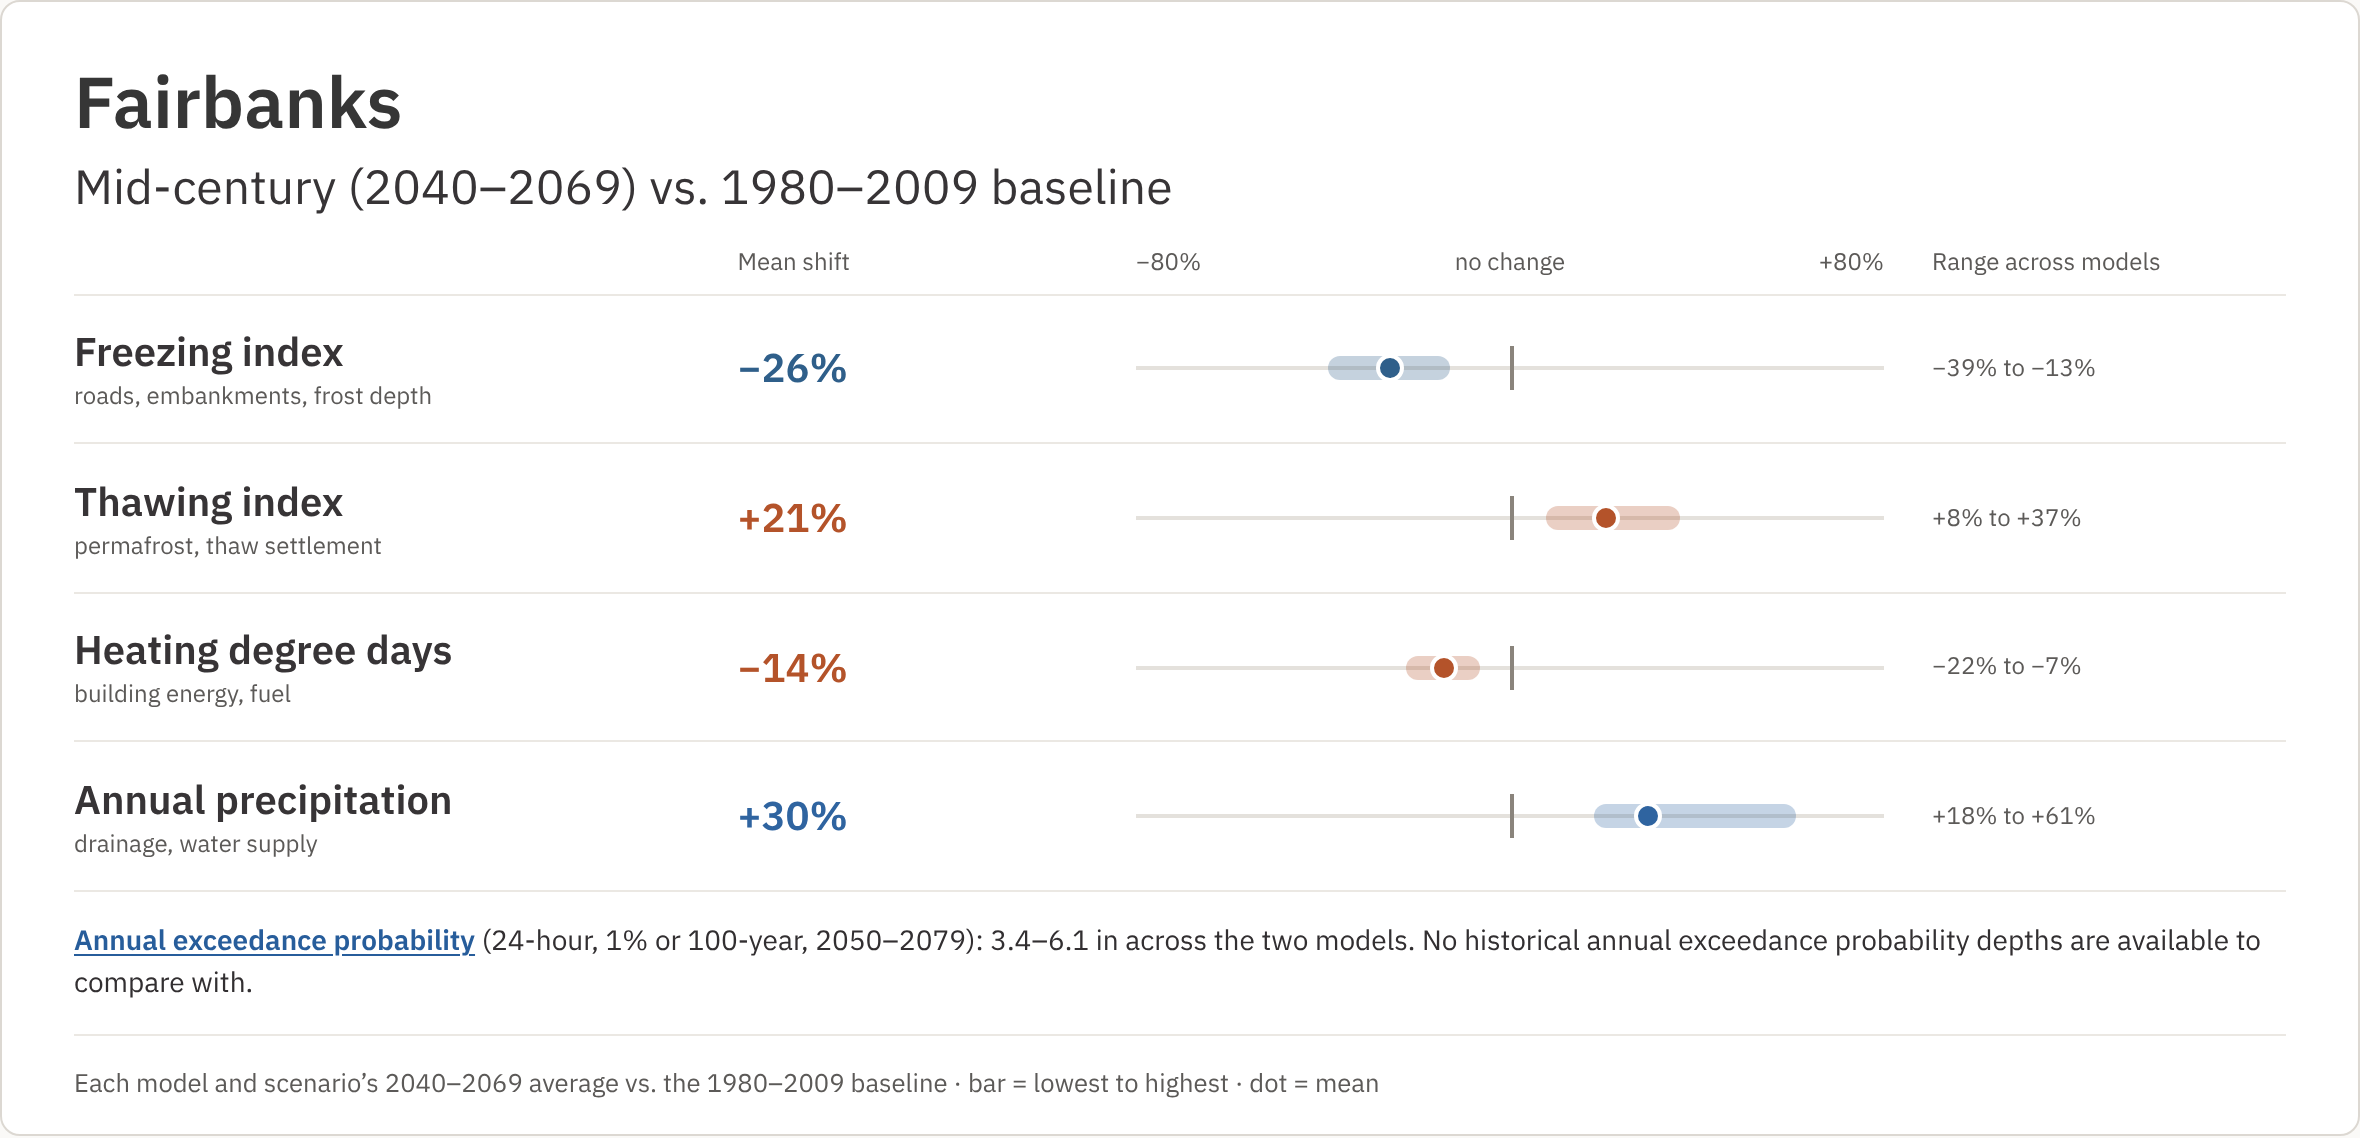
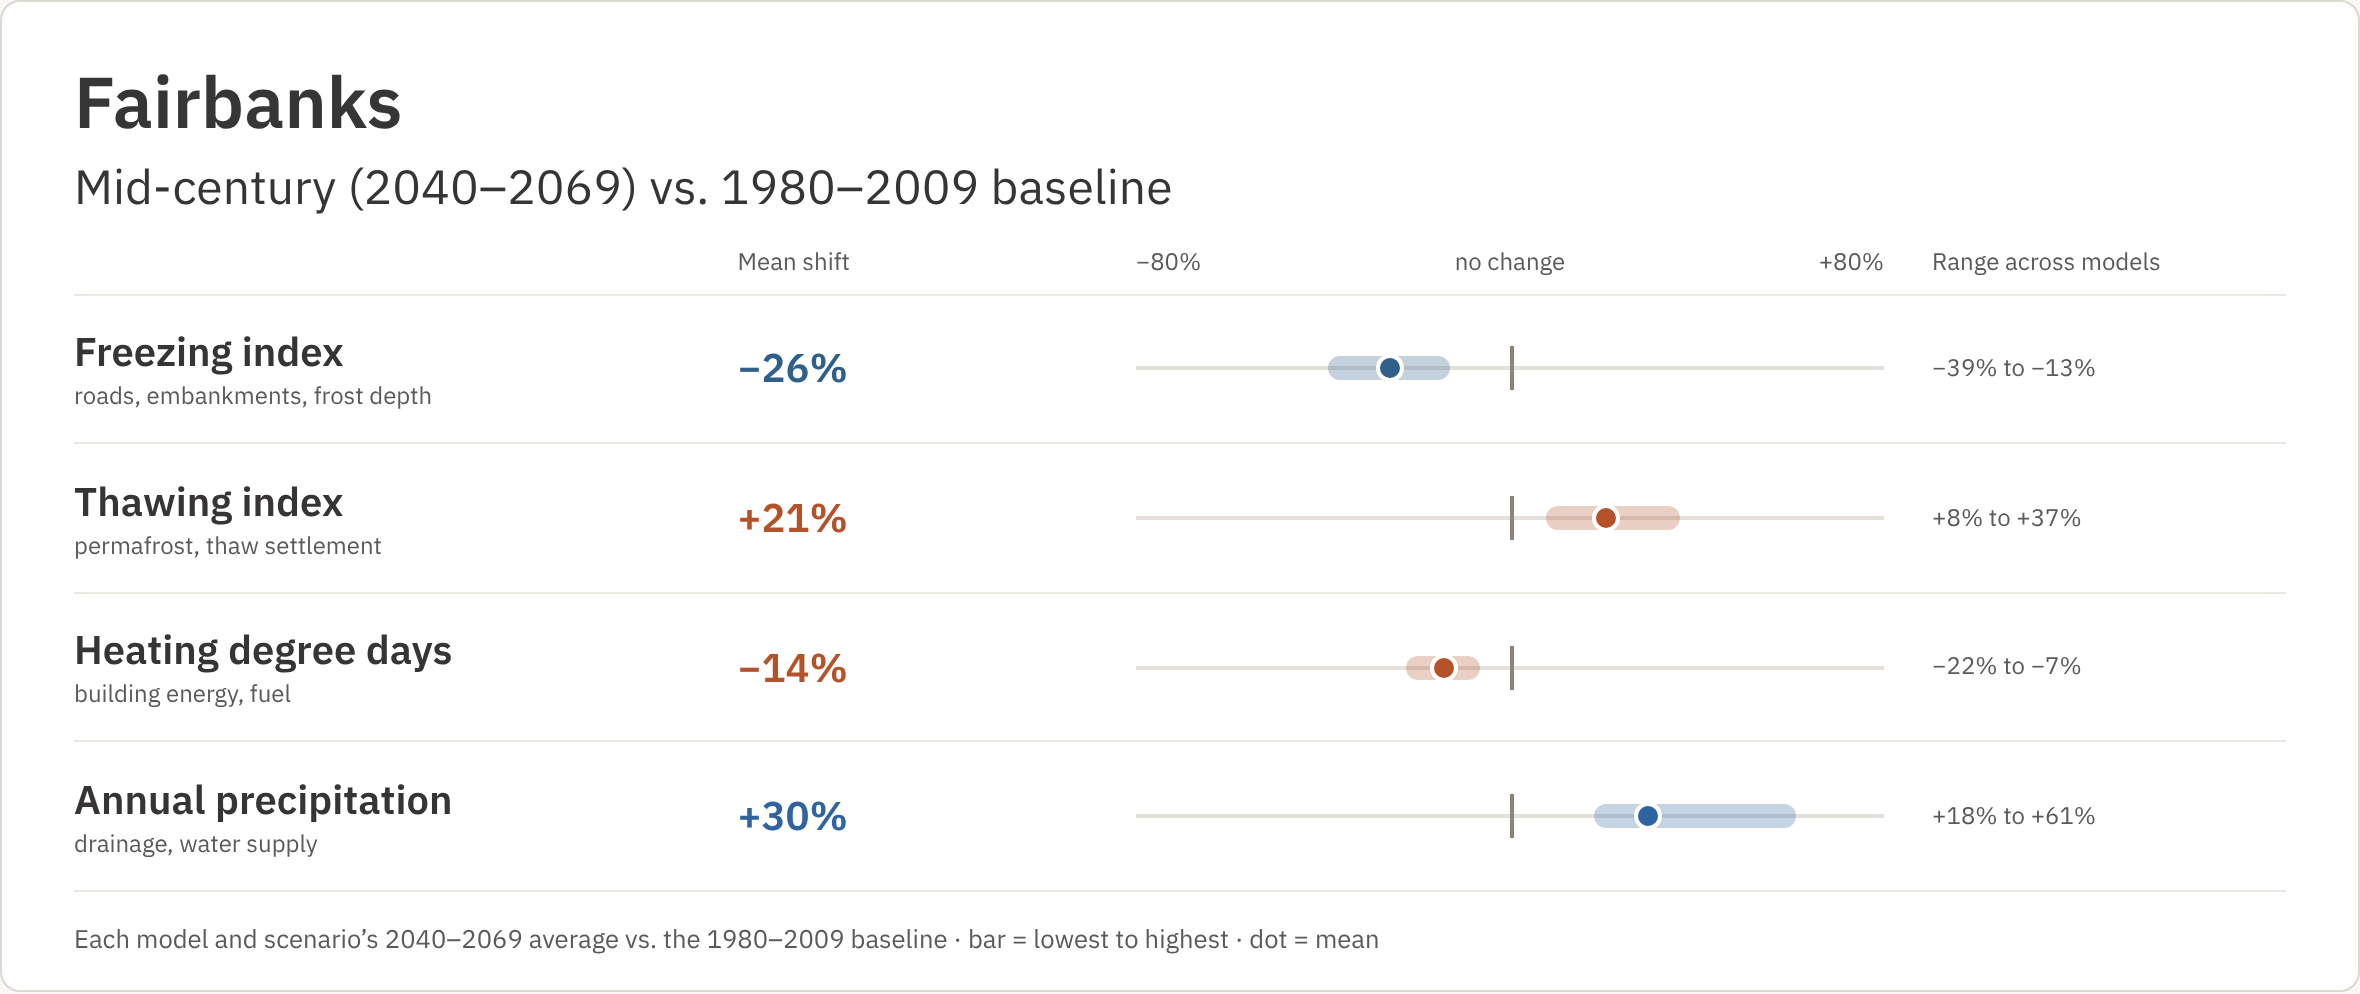
Retake the home page picture without the exceedance probability line
The summary no longer shows the annual exceedance probability line, so
the picture, its height and its alt text follow.

Claude-Session: https://claude.ai/code/session_014SUJnJjBvUfhDoAB8mrBH4

diff --git a/app/components/home/SampleReport.vue b/app/components/home/SampleReport.vue
@@ -29,9 +29,9 @@
       <img
         :src="sampleReportImage"
         width="2360"
-        height="1138"
+        height="994"
         loading="lazy"
-        alt="Sample report summary for Fairbanks, mid-century versus the 1980 to 2009 baseline: freezing index down 26% (models range from down 39% to down 13%), thawing index up 21% (up 8% to up 37%), heating degree days down 14% (down 22% to down 7%) and annual precipitation up 30% (up 18% to up 61%), and a 24-hour, 1% annual exceedance probability (100-year) depth of 3.4 to 6.1 inches."
+        alt="Sample report summary for Fairbanks, mid-century versus the 1980 to 2009 baseline: freezing index down 26% (models range from down 39% to down 13%), thawing index up 21% (up 8% to up 37%), heating degree days down 14% (down 22% to down 7%) and annual precipitation up 30% (up 18% to up 61%)."
       />
     </figure>
 
